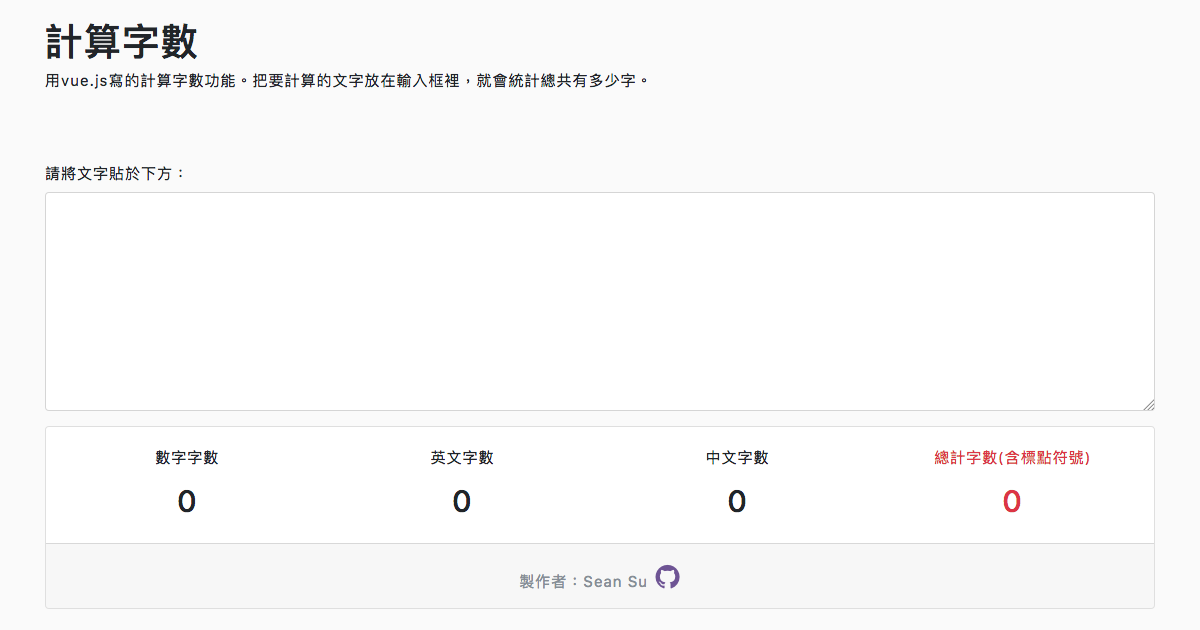
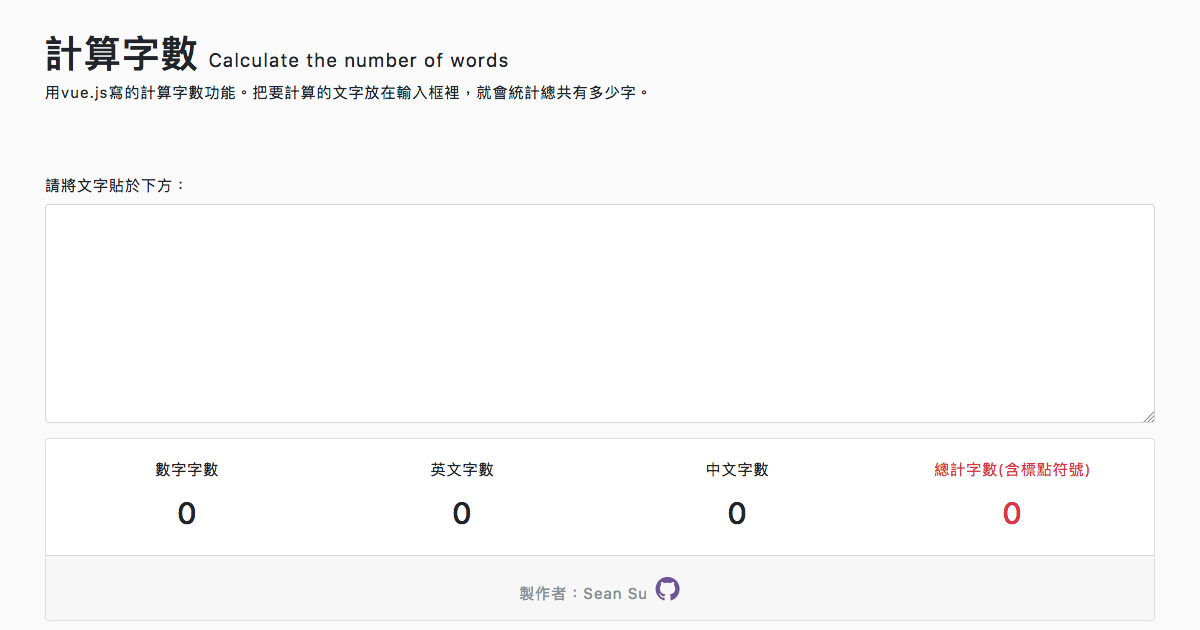
換用html5的標籤、fb分享圖

diff --git a/index.html b/index.html
@@ -1,15 +1,15 @@
 <!DOCTYPE html>
 <html>
   <head>
-    <title>計算字數 - by Sean Su</title>
+    <title>計算字數 Calculate the number of words - by Sean Su</title>
     <meta name="description" content="用vue.js寫的計算字數功能。把要計算的文字放在輸入框裡，就會統計總共有多少字。">
     <link rel="canonical" href="https://sean-su.github.io/text-counter/">
     <meta charset="utf-8">
     <meta http-equiv="X-UA-Compatible" content="IE=edge, chrome=1">
     <meta name="viewport" content="width=device-width, user-scalable=no, initial-scale=1, minimum-scale=1.0, maximum-scale=1.0, minimal-ui">
     <link rel="shortcut icon" href="assets/img/favicon.ico">
-    <meta name="theme-color" content="#263238">
-    <meta name="apple-mobile-web-app-status-bar-style" content="#263238">
+    <meta name="theme-color" content="#2196F3">
+    <meta name="apple-mobile-web-app-status-bar-style" content="#2196F3">
     <link rel="stylesheet" href="https://cdnjs.cloudflare.com/ajax/libs/twitter-bootstrap/4.0.0-beta/css/bootstrap.min.css">
     <link rel="stylesheet" href="https://cdnjs.cloudflare.com/ajax/libs/font-awesome/4.7.0/css/font-awesome.min.css">
     <link rel="stylesheet" href="assets/css/main.css">
@@ -17,8 +17,8 @@
 
 
     <meta property="og:url" content="https://sean-su.github.io/text-counter/">
-    <meta property="og:site_name" content="計算字數 - by Sean Su">
-    <meta property="og:title" content="計算字數 - by Sean Su">
+    <meta property="og:site_name" content="計算字數 Calculate the number of words - by Sean Su">
+    <meta property="og:title" content="計算字數 Calculate the number of words - by Sean Su">
     <meta property="og:description" content="用vue.js寫的計算字數功能。把要計算的文字放在輸入框裡，就會統計總共有多少字。">
     <meta property="og:image" content="https://sean-su.github.io/text-counter/assets/img/fb-share.png">
     <meta name="keywords" content="計算字數, vue.js, text counter">
@@ -44,14 +44,14 @@
   </head>
 
   <body>
-    <div class="container" id="app">
-      <div class="row">
+    <main class="container" id="app">
+      <section class="row">
         <div class="col">
-          <h1>計算字數</h1>
+          <h1>計算字數<small>Calculate the number of words</small></h1>
           <p>用vue.js寫的計算字數功能。把要計算的文字放在輸入框裡，就會統計總共有多少字。</p>
         </div>
-      </div>
-      <div class="row">
+      </section>
+      <section class="row">
         <div class="col">
           <form>
             <div class="form-group">
@@ -60,8 +60,8 @@
             </div>
           </form>
         </div>
-      </div>
-      <div class="row">
+      </section>
+      <section class="row">
         <div class="col">
           <div class="card text-center">
             <div class="card-body row">
@@ -85,8 +85,8 @@
             <div class="card-footer text-muted">製作者：Sean Su<a class="github" href="https://github.com/sean-su/text-counter"><i class="fa fa-github"></i></a></div>
           </div>
         </div>
-      </div>
-    </div>
+      </section>
+    </main>
     <script src="https://code.jquery.com/jquery-3.1.1.min.js"></script>
     <script src="https://cdnjs.cloudflare.com/ajax/libs/vue/2.4.4/vue.js"></script>
     <script src="assets/js/main.min.js"></script>

diff --git a/assets/css/main.css b/assets/css/main.css
@@ -2,6 +2,8 @@ html, body { width: 100%; height: 100%; background: #fafafa; letter-spacing: 1px
 
 .container { padding-top: 5%; }
 
+h1 small { padding-left: 10px; padding-left: 0.625rem; font-size: 50%; }
+
 form { margin-top: 5%; }
 
 .github { display: inline-block; margin-left: 8px; margin-left: 0.5rem; font-size: 30px; font-size: 1.875rem; color: #6e5494; -webkit-transition: .5s; -o-transition: .5s; transition: .5s; }

diff --git a/assets/sass/main.sass b/assets/sass/main.sass
@@ -11,6 +11,11 @@ html, body
 .container
   padding-top: 5%
 
+h1
+  small
+    padding-left: $px10
+    font-size: 50%
+
 form
   margin-top: 5%
 
